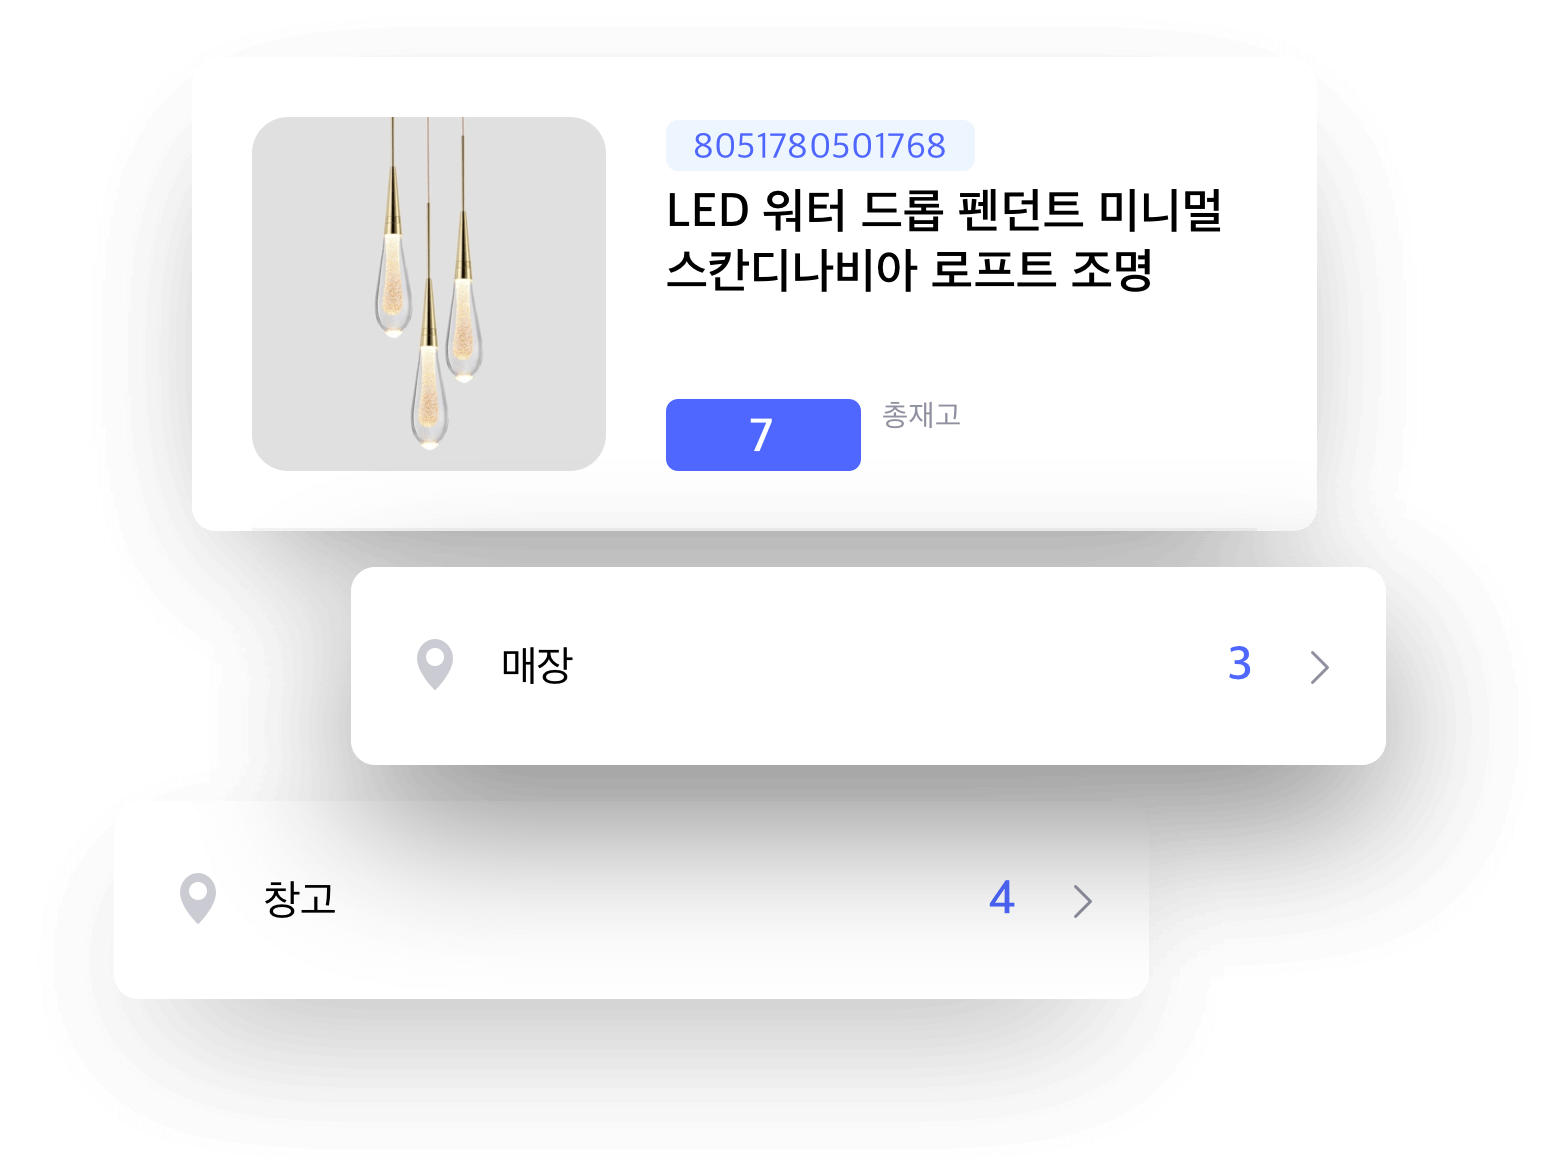
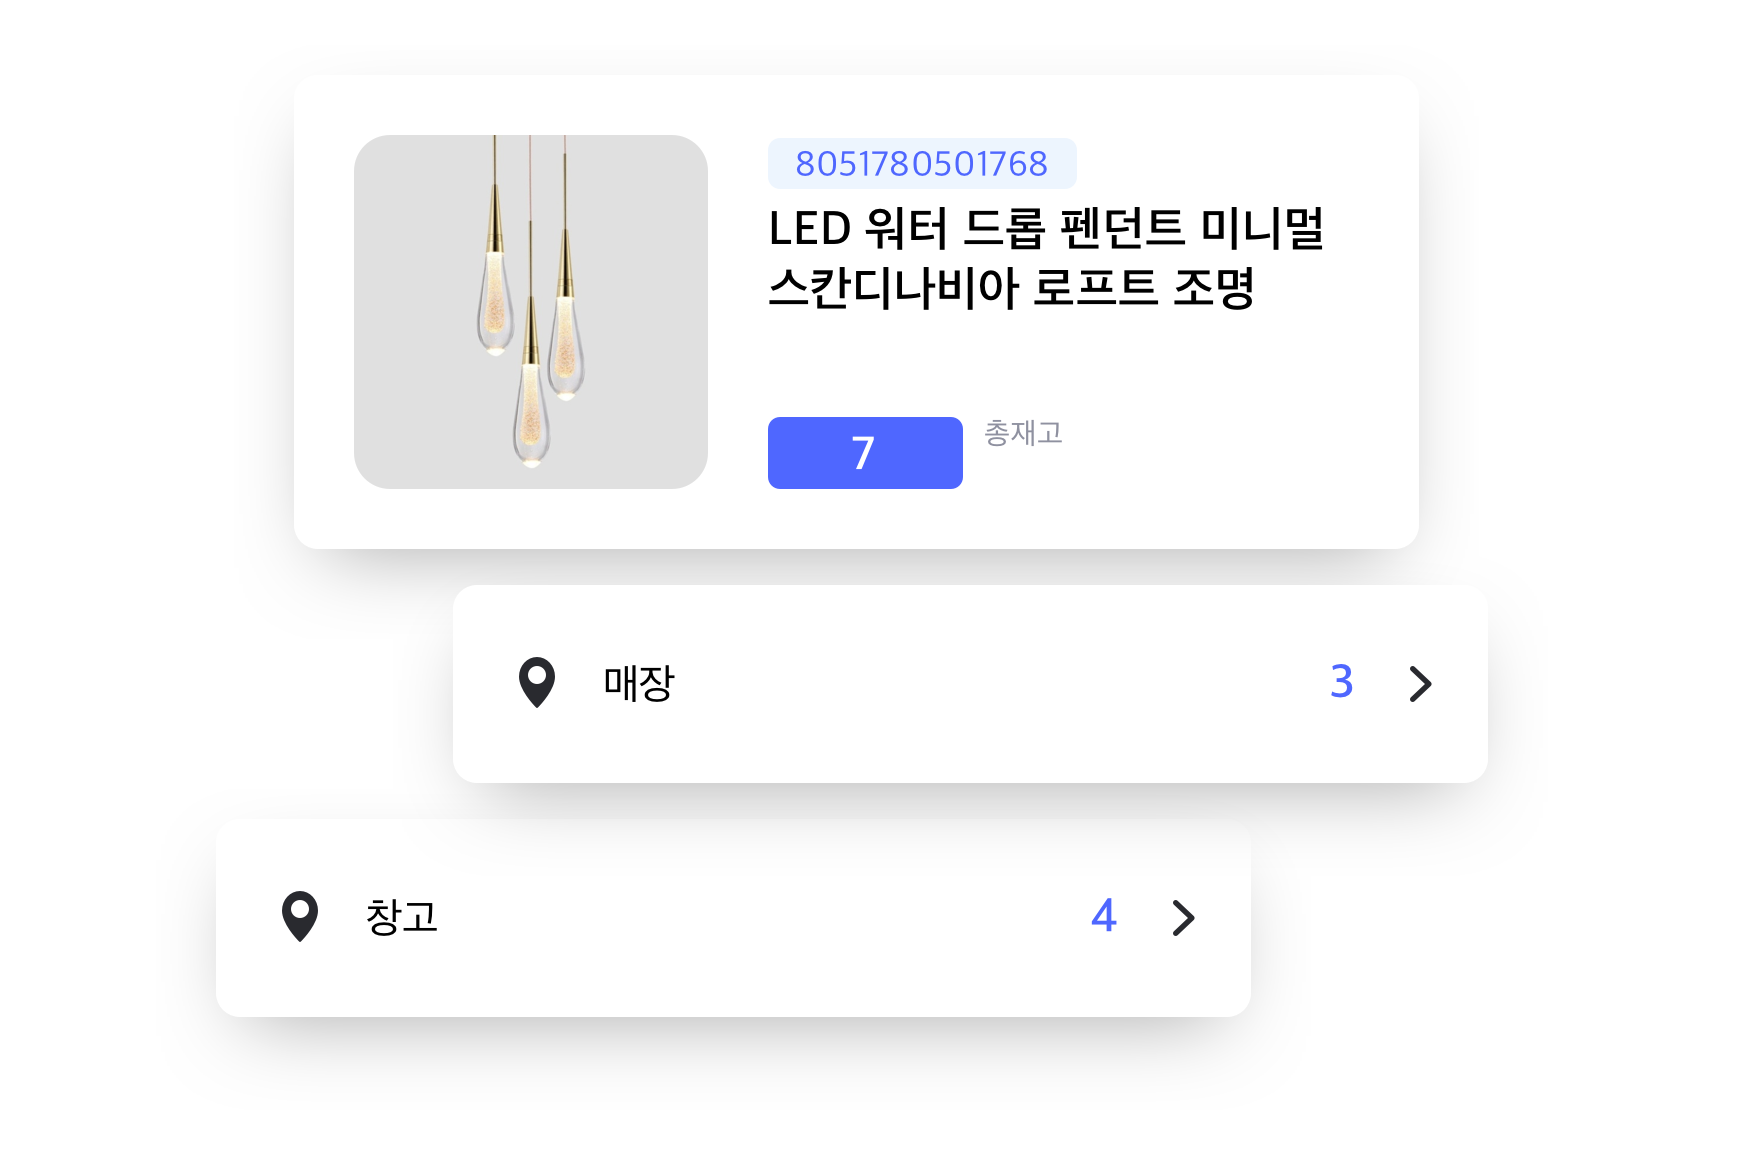
데스크탑 편의기능 페이지 수정

diff --git a/src/components/desktop-features.js b/src/components/desktop-features.js
@@ -7,7 +7,6 @@ import DesktopLayout from "./desktop-layout";
 import {
   DesktopBaseContainer,
   Padding,
-  SimpleTop,
   ExternalLinkWithQuery,
 } from "./common";
 import * as constants from "./constants";
@@ -31,6 +30,16 @@ const {
   barBlue,
 } = styles;
 
+const Top = ({ t }) => (
+  <DesktopBaseContainer className={styles.topContentContainer}>
+    <div className={styles.topTitle}>{t("features:topTitle")}</div>
+    <Padding y={16} />
+    <div className={styles.topDesc}>{t("features:topDesc")}</div>
+    <Padding y={50} />
+    <Menu t={t} />
+  </DesktopBaseContainer>
+);
+
 const MenuItem = ({
   to, icon, label, title,
 }) => (
@@ -49,7 +58,7 @@ const MenuItem = ({
         alt={label}
       />
     </div>
-    <Padding y={13} />
+    <Padding y={9} />
     <div className={styles.menuItemLabel}>{label}</div>
   </Link>
 );
@@ -119,17 +128,17 @@ function FeatureTemplate({
       id={id}
       className={[styles.featureTemplate, bgColor].join(" ")}
     >
-      <DesktopBaseContainer>
+      <DesktopBaseContainer className={styles.featureTemplateContentContainer}>
         <div className={styles.featureTemplateDescFigContainer}>
           <div className={styles.featureTemplateTitleDescContainer}>
             <div className={styles.featureTemplateTitle}>
               {title}
             </div>
-            <Padding y={35} />
+            <Padding y={18} />
             <div className={styles.featureTemplateDesc}>
               {desc}
             </div>
-            <Padding y={30} />
+            <Padding y={50} />
             <ExternalLinkWithQuery href={constants.urlStart}>
               <button
                 type="button"
@@ -139,14 +148,14 @@ function FeatureTemplate({
               </button>
             </ExternalLinkWithQuery>
           </div>
-          <div className={styles.featureTemplateFigureContainer}>
+          <div style={figureStyle}>
             <GatsbyImage
               image={figure}
-              style={figureStyle}
+              alt={title}
             />
           </div>
         </div>
-        <Padding y={150} />
+        <Padding y={70} />
         <div className={styles.halfContainer}>
           {demoData
             .slice(0, 2)
@@ -194,6 +203,7 @@ const FeatureBarcodelabel = ({ data }) => (
     bgColor={bgWhite}
     title={<Trans i18nKey="features:barcodelabelTitle" />}
     figure={data.barcodelabelFig.childImageSharp.gatsbyImageData}
+    figureStyle={{ marginRight: -30 }}
     desc={<Trans i18nKey="features:barcodelabelDesc" />}
     barColor={barGray}
     demoData={[
@@ -217,6 +227,7 @@ const FeatureSummary = ({ data }) => (
     bgColor={bgBlue}
     title={<Trans i18nKey="features:summaryTitle" />}
     figure={data.summaryFig.childImageSharp.gatsbyImageData}
+    figureStyle={{ marginTop: -30, marginRight: -102 }}
     desc={<Trans i18nKey="features:summaryDesc" />}
     barColor={barBlue}
     demoData={[
@@ -240,6 +251,7 @@ const FeatureViewPastQuantity = ({ data }) => (
     bgColor={bgWhite}
     title={<Trans i18nKey="features:viewPastQuantityTitle" />}
     figure={data.viewPastQuantityFig.childImageSharp.gatsbyImageData}
+    figureStyle={{ marginTop: -30, marginRight: -102 }}
     desc={<Trans i18nKey="features:viewPastQuantityDesc" />}
     barColor={barGray}
     demoData={[
@@ -263,6 +275,7 @@ const FeatureLocation = ({ data }) => (
     bgColor={bgOrange}
     title={<Trans i18nKey="features:locationTitle" />}
     figure={data.locationFig.childImageSharp.gatsbyImageData}
+    figureStyle={{ marginTop: -30, marginRight: -102 }}
     desc={<Trans i18nKey="features:locationDesc" />}
     barColor={barOrange}
     demoData={[
@@ -286,15 +299,7 @@ const DesktopFeatures = ({ data, t }) => (
     closingEmoji={data.dinosaur}
     closingMsg={<Trans i18nKey="features:closingMsg" />}
   >
-    <SimpleTop title={t("features:topTitle")}>
-      <Trans i18nKey="features:topDesc" />
-    </SimpleTop>
-
-    <Padding y={62} />
-
-    <Menu t={t} />
-
-    <Padding y={100} />
+    <Top t={t} />
 
     <FeatureLowstock data={data} />
     <FeatureBarcodelabel data={data} />

diff --git a/src/components/desktop-features.module.css b/src/components/desktop-features.module.css
@@ -1,3 +1,19 @@
+.topContentContainer {
+  padding: 100px 0;
+  color: var(--color-font-gray1);
+}
+
+.topTitle {
+  font-size: var(--font-size-40);
+  font-weight: bold;
+  text-align: center;
+}
+
+.topDesc {
+  font-size: var(--font-size-b18);
+  text-align: center;
+}
+
 .menuItem {
   width: 140px;
   display: block;
@@ -10,7 +26,7 @@
   line-height: 1.5;
   letter-spacing: -0.16px;
   text-align: center;
-  color: var(--color-font-darker);
+  color: var(--color-font-gray1);
 }
 
 .menuItem:hover {
@@ -19,6 +35,7 @@
 }
 
 .menuContainer {
+  padding: 0 174px;
   display: flex;
   flex-direction: row;
   justify-content: space-between;
@@ -26,42 +43,12 @@
 }
 
 .featureTemplate {
-  padding: 120px 0px 120px 20px;
   overflow: hidden;
 }
 
-.featureTemplateTitle {
-  font-size: 52px;
-  font-weight: bold;
-  line-height: 1.35;
-  letter-spacing: -1px;
-  color: black;
-}
-
-.featureTemplateDesc {
-  font-size: 20px;
-  line-height: 1.8;
-  color: black;
-}
-
-html[lang="ko"] .featureTemplateDesc {
-  letter-spacing: -0.22px;
-}
-
-.featureTemplateStartNow {
-  min-width: 180px;
-  border-radius: 6px;
-  background-color: var(--color-font-blue);
-  padding: 9px 30px;
-  font-size: 16px;
-  font-weight: bold;
-  text-align: center;
-  color: white;
-}
-
-.featureTemplateFigureContainer {
-  position: relative;
-  overflow: visible;
+.featureTemplateContentContainer {
+  padding: 100px 102px;
+  color: var(--color-font-gray1);
 }
 
 .featureTemplateDescFigContainer {
@@ -76,6 +63,33 @@ html[lang="ko"] .featureTemplateDesc {
   flex-shrink: 0;
 }
 
+.featureTemplateTitle {
+  font-size: var(--font-size-36);
+  font-weight: bold;
+  line-height: 1.35;
+  letter-spacing: -1px;
+}
+
+.featureTemplateDesc {
+  font-size: var(--font-size-b18);
+  line-height: 1.5;
+}
+
+html[lang="ko"] .featureTemplateDesc {
+  letter-spacing: -0.22px;
+}
+
+.featureTemplateStartNow {
+  min-width: 180px;
+  border-radius: 6px;
+  background-color: var(--color-primary);
+  padding: 9px 30px;
+  font-size: var(--font-size-b16);
+  font-weight: bold;
+  text-align: center;
+  color: white;
+}
+
 .halfContainer {
   display: flex;
   flex-direction: row;
@@ -88,13 +102,16 @@ html[lang="ko"] .featureTemplateDesc {
 }
 
 .demoTemplate {
-  border-left: 2px solid #f5a623;
-  padding: 0px 28px;
-  min-height: 184px;
+  width: 478px;
+  border-left: 2px solid var(--color-orange);
+  padding: 0 0 10px 28px;
   display: flex;
   flex-direction: column;
   justify-content: flex-start;
   align-items: flex-start;
+}
+.demoTemplate:first-child {
+  margin-right: 30px;
 }
 
 .demoUserProfile {
@@ -108,18 +125,18 @@ html[lang="ko"] .featureTemplateDesc {
 
 .demoTitle {
   margin-left: 14px;
-  font-size: 14px;
-  line-height: 2;
+  font-size: var(--font-size-b16);
+  line-height: 1.9;
   letter-spacing: -0.16px;
   color: var(--color-font-primary);
 }
 
 .demoDesc {
   width: 100%;
-  font-size: 16px;
-  line-height: 1.75;
+  font-size: var(--font-size-b16);
+  line-height: 1.5;
   letter-spacing: -0.18px;
-  color: var(--color-font-darker);
+  color: var(--color-font-gray1);
 }
 
 .bgWhite {

diff --git a/src/styles/global.css b/src/styles/global.css
@@ -29,6 +29,7 @@
   --color-primary: #4f67ff;
   --color-light-blue: #50a4fa;
   --color-light-blue-20: rgba(80, 164, 250, 0.2);
+  --color-orange: #f5a623;
   --color-font-gray1: #292a2f;
   --color-gray2: #8f91a0;
   --color-gray4: #e0e0e3;
